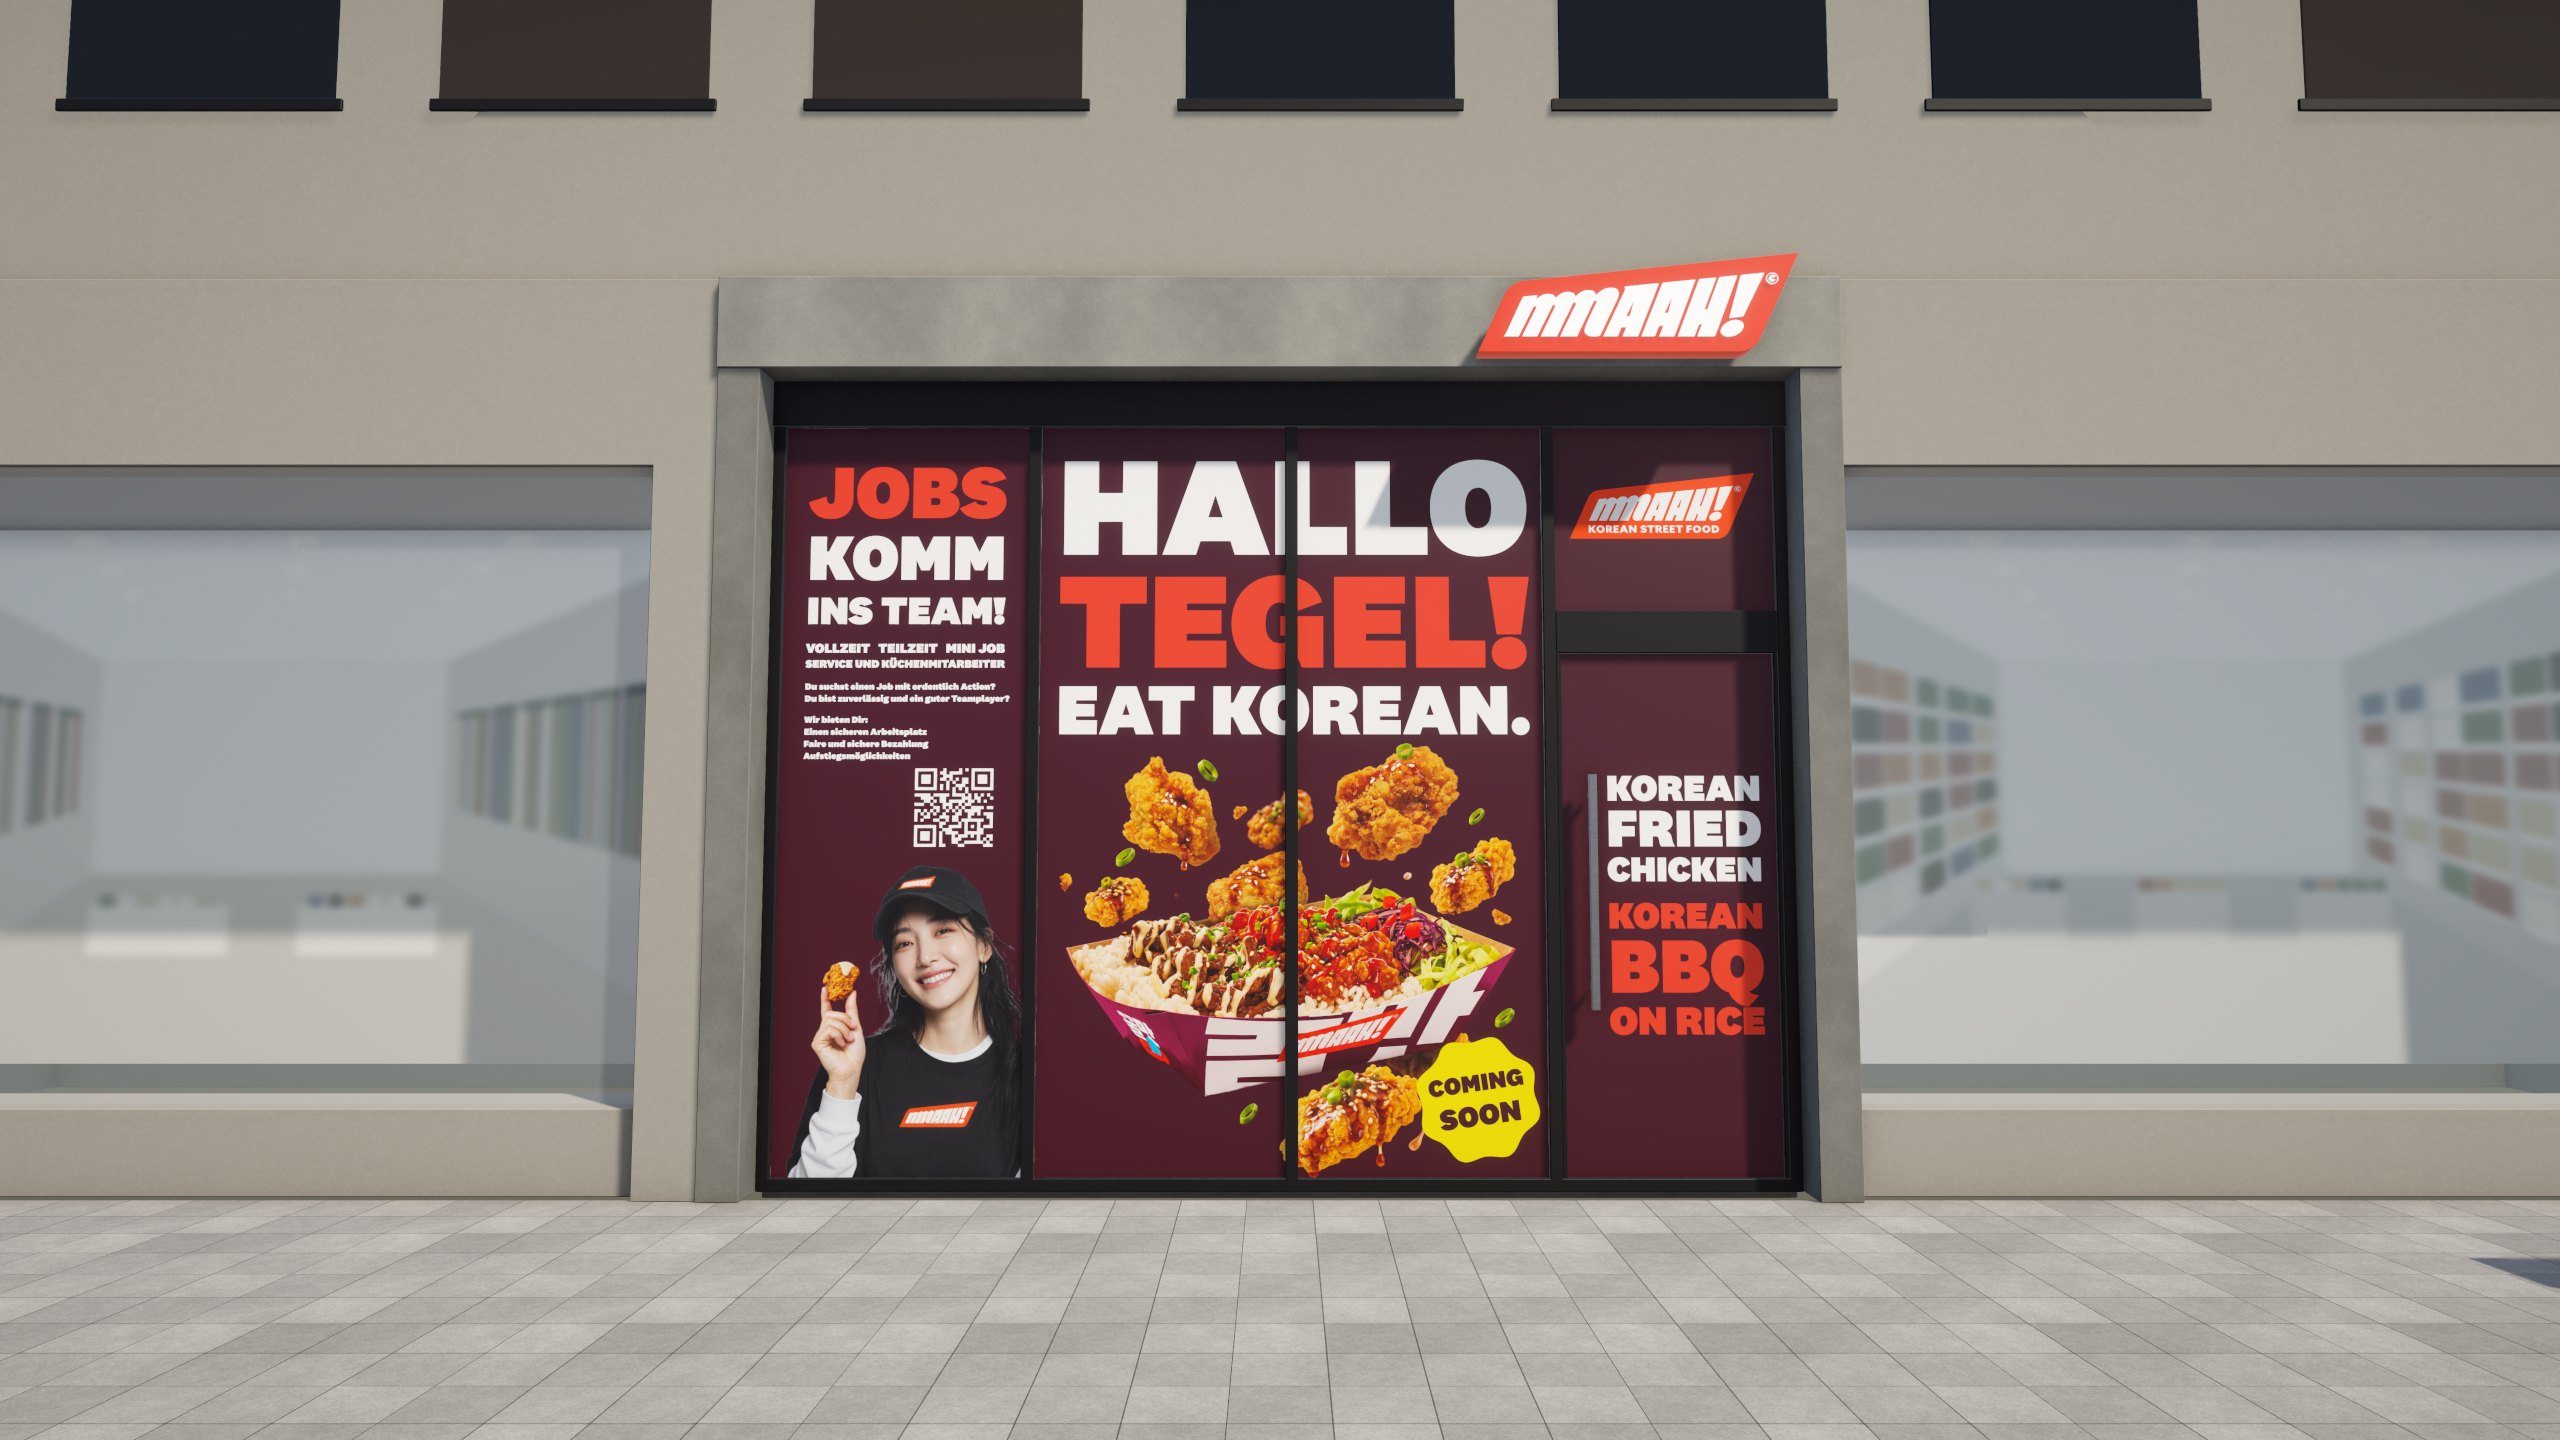
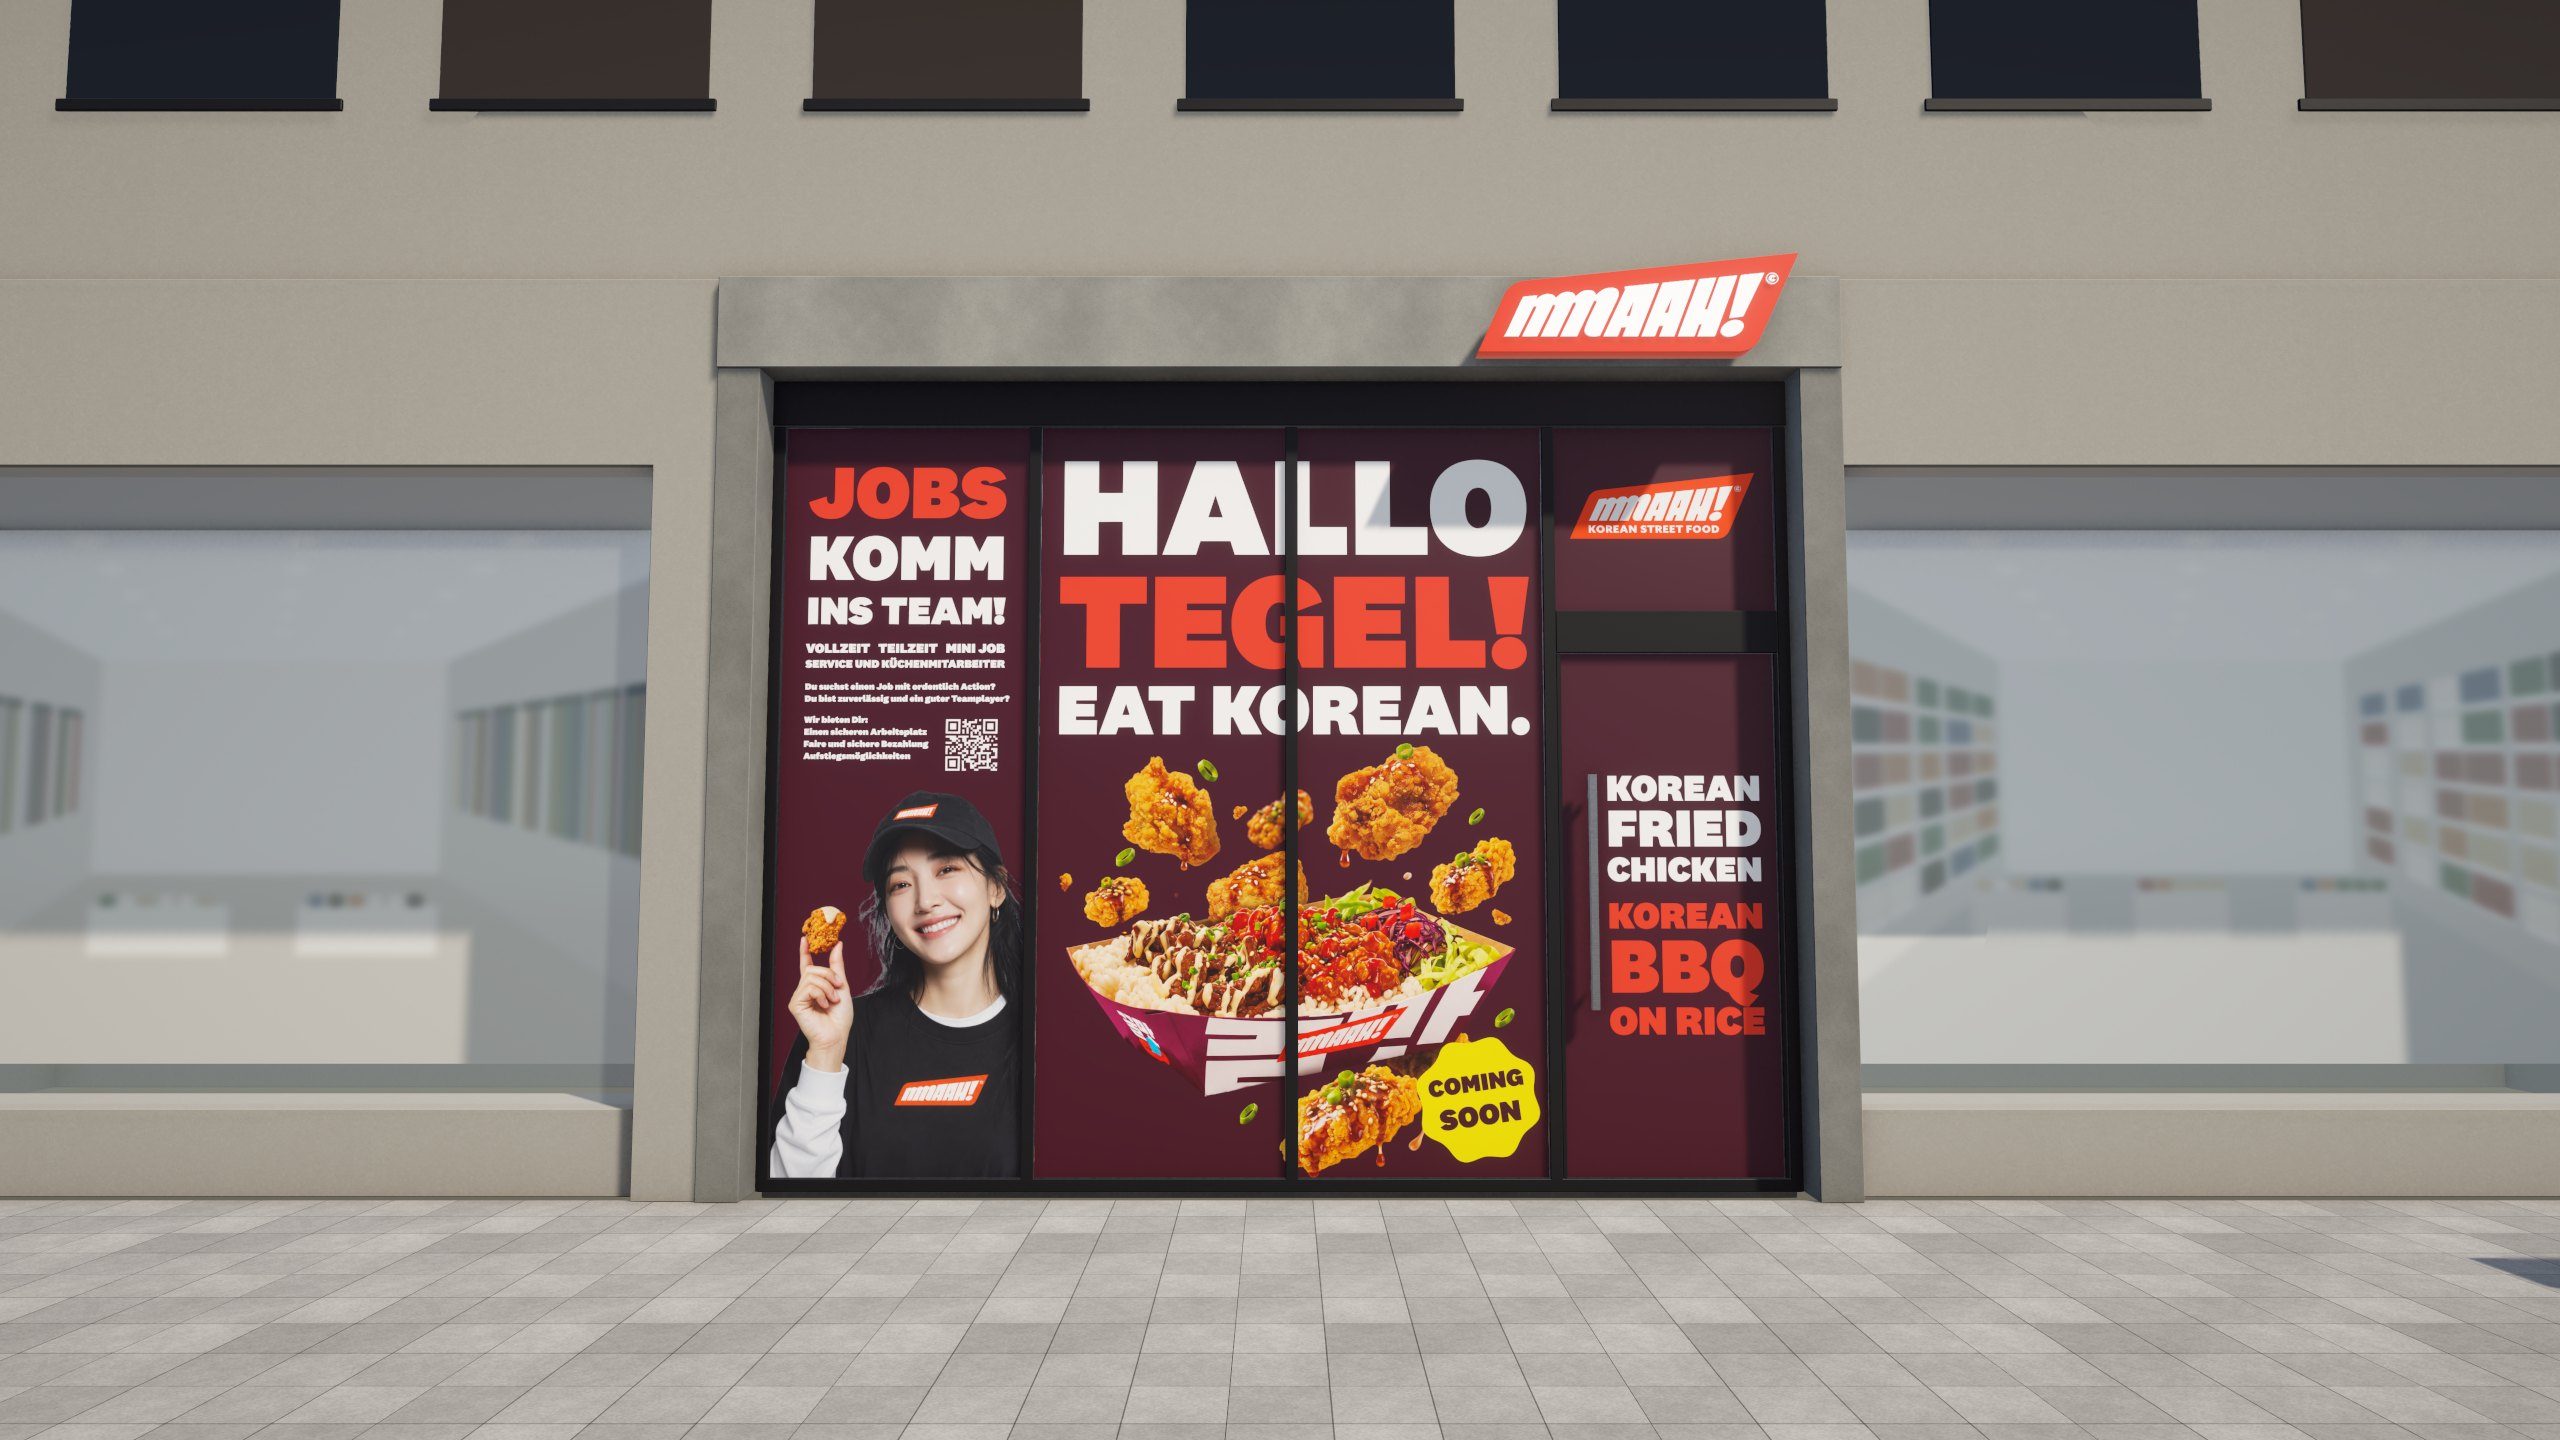
V7: QR neben den Text, Mitarbeiterin größer

Changed region(s): [[0.2812, 0.5, 0.4062, 0.8125]]

diff --git a/index.html b/index.html
@@ -61,7 +61,7 @@
 <script>
 const VARS = [
   ["v0", "Ohne Folie", "Die Front ohne Beklebung, innen Rohbau, zum Vergleich."],
-  ["v7", "7 · Hallo Tegel (Korrektur 26.11.)", "<b>Hallo Tegel mit den Änderungen vom 26.11.2026.</b> HALLO, TEGEL!, EAT KOREAN. als Blocktext gleich breit, Jobs ebenso, Mitarbeiterin sauber freigestellt, QR größer, weißes Wallpaper raus. Food Visual aus V6 größer, nur auf den beiden mittleren Scheiben, Wings gegen die echten Mmaah Bites mit Soy Garlic Soße, Sesam und Schnittlauch getauscht. Gelber Sticker COMING SOON (ohne Datum) unten rechts auf der rechten Mittelscheibe, Tür: Blocktext KOREAN FRIED CHICKEN (weiß) und KOREAN BBQ ON RICE (rot)."],
+  ["v7", "7 · Hallo Tegel (Korrektur 26.11.)", "<b>Hallo Tegel mit den Änderungen vom 26.11.2026.</b> HALLO, TEGEL!, EAT KOREAN. als Blocktext gleich breit, Jobs ebenso, Mitarbeiterin größer und sauber freigestellt, QR neben dem Text, weißes Wallpaper raus. Food Visual aus V6 größer, nur auf den beiden mittleren Scheiben, Wings gegen die echten Mmaah Bites mit Soy Garlic Soße, Sesam und Schnittlauch getauscht. Gelber Sticker COMING SOON (ohne Datum) unten rechts auf der rechten Mittelscheibe, Tür: Blocktext KOREAN FRIED CHICKEN (weiß) und KOREAN BBQ ON RICE (rot)."],
   ["v6", "6 · Hallo Tegel (Korrektur 25.11.)", "<b>Hallo Tegel mit den Änderungen vom 25.11.2026.</b> Koreanisch 테겔 안녕! neben EAT KOREAN, neues Food Visual mit Soy Garlic Chicken Bites und dem Special BBQ Reis (ohne Kartoffelscheiben), Mitarbeiterin im Jobs Feld hält ein Chicken Bite, Tür EAT KOREAN SINCE 2012 mit Mund, Störer Coming Soon kleiner."],
   ["v5", "5 · Hallo Tegel", "<b>HALLO TEGEL! EAT KOREAN.</b> Großes Food Visual über Feld 2 und 3 (mit Higgsfield aus Schale, Bites Box und BBQ Reis erzeugt), Coming Soon Stempel AB JANUAR schräg auf der Tür, Logo darüber. Links bleibt das Jobs Feld mit QR Code und Mitarbeiterin."],
   ["v1", "1 · Heilbronn Stil", "<b>Wie Heilbronn.</b> Feld 1 Jobs (KOMM INS TEAM!, QR Code, Mitarbeiterin), Feld 2 und 3 Aubergine mit EAT KOREAN IN TEGEL über beide Felder und zwei Schalen, Tür Logo, Hand mit Chicken Bite und Mund, über der Tür AB JANUAR."],
